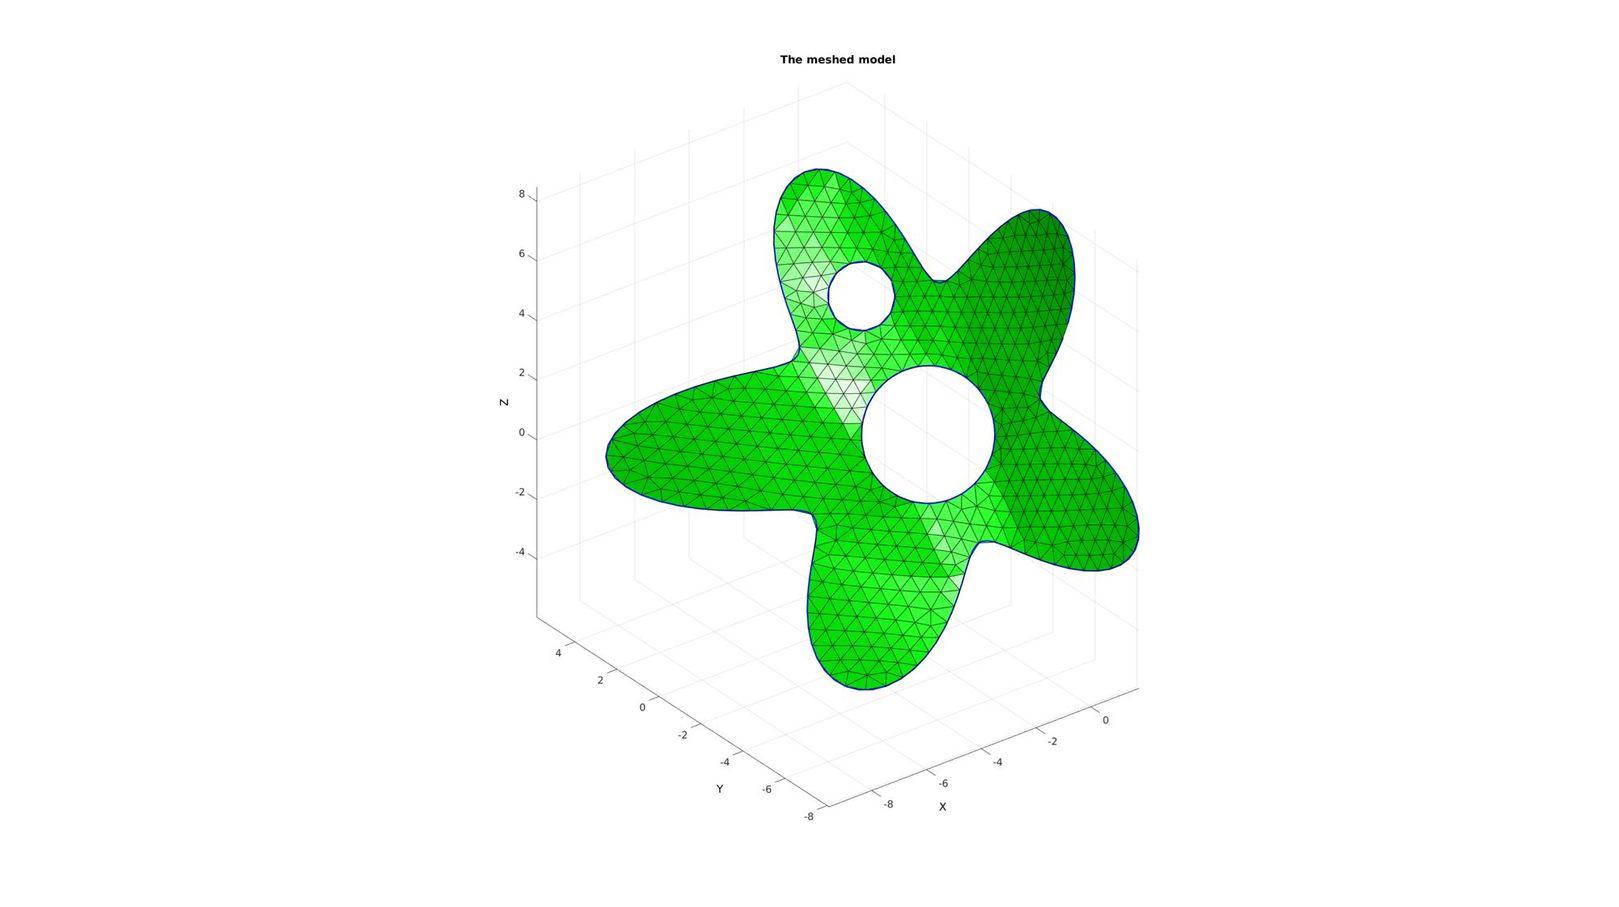
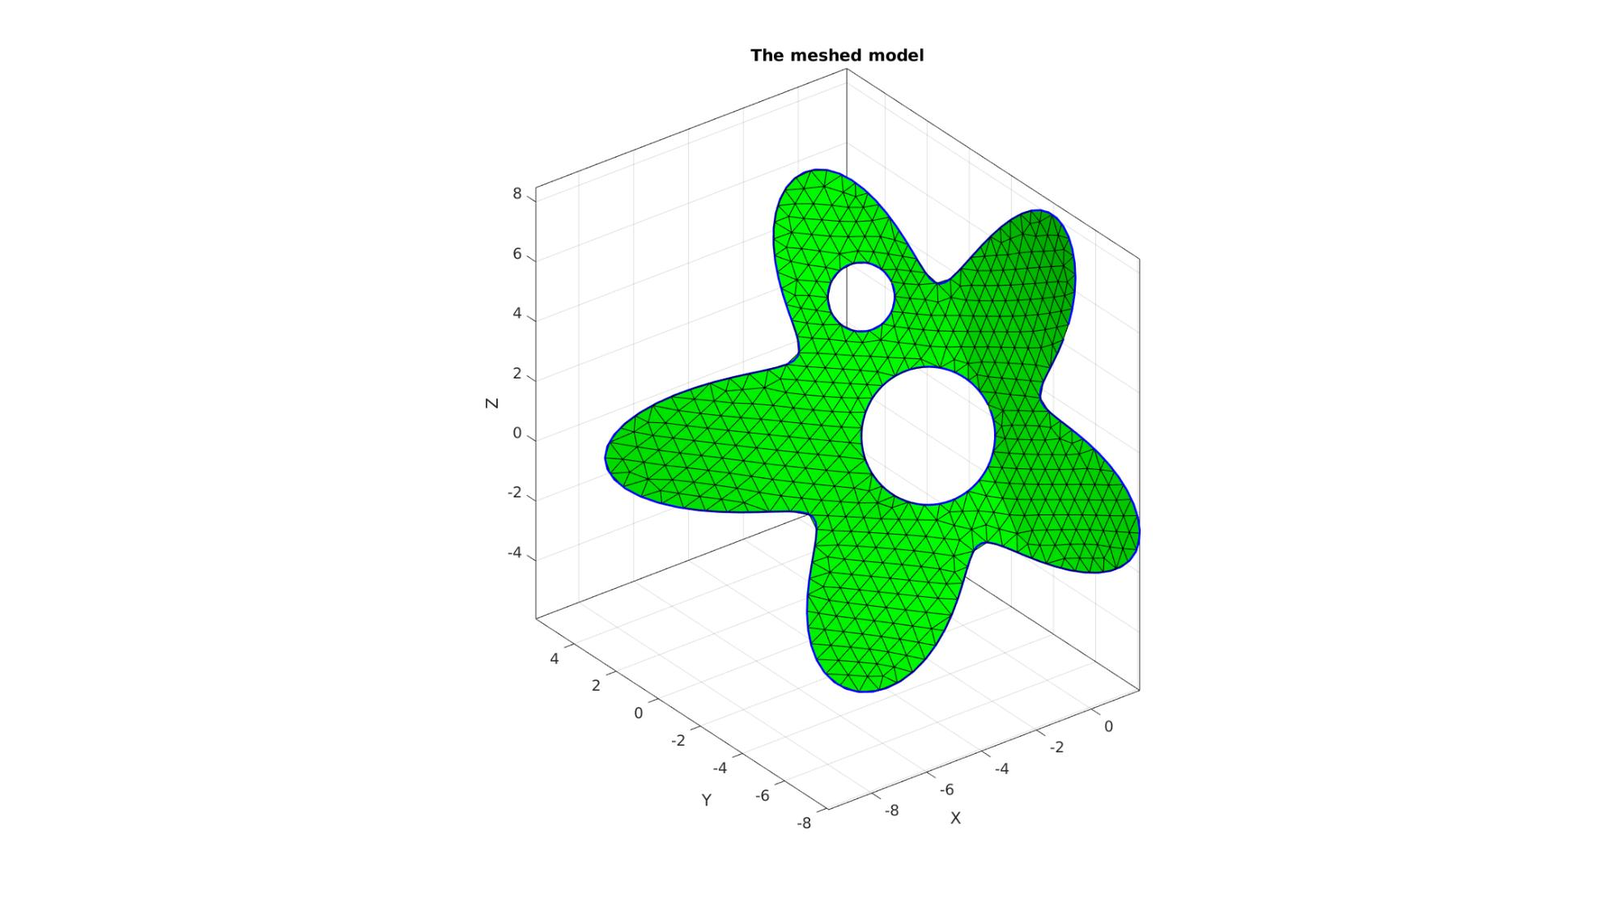
Documentation updates

diff --git a/docs/html/HELP_regionTriMesh3D.html b/docs/html/HELP_regionTriMesh3D.html
@@ -6,8 +6,8 @@
    <!--
 This HTML was auto-generated from MATLAB code.
 To make changes, update the MATLAB code and republish this document.
-      --><title>regionTriMesh3D</title><meta name="generator" content="MATLAB 9.6"><link rel="schema.DC" href="http://purl.org/dc/elements/1.1/"><meta name="DC.date" content="2019-06-20"><meta name="DC.source" content="HELP_regionTriMesh3D.m"><style type="text/css">
-html,body,div,span,applet,object,iframe,h1,h2,h3,h4,h5,h6,p,blockquote,pre,a,abbr,acronym,address,big,cite,code,del,dfn,em,font,img,ins,kbd,q,s,samp,small,strike,strong,sub,sup,tt,var,b,u,i,center,dl,dt,dd,ol,ul,li,fieldset,form,label,legend,table,caption,tbody,tfoot,thead,tr,th,td{margin:0;padding:0;border:0;outline:0;font-size:100%;vertical-align:baseline;background:transparent}body{line-height:1}ol,ul{list-style:none}blockquote,q{quotes:none}blockquote:before,blockquote:after,q:before,q:after{content:'';content:none}:focus{outine:0}ins{text-decoration:none}del{text-decoration:line-through}table{border-collapse:collapse;border-spacing:0}
+      --><title>regionTriMesh3D</title><meta name="generator" content="MATLAB 9.14"><link rel="schema.DC" href="http://purl.org/dc/elements/1.1/"><meta name="DC.date" content="2023-06-08"><meta name="DC.source" content="HELP_regionTriMesh3D.m"><style type="text/css">
+html,body,div,span,applet,object,iframe,h1,h2,h3,h4,h5,h6,p,blockquote,pre,a,abbr,acronym,address,big,cite,code,del,dfn,em,font,img,ins,kbd,q,s,samp,small,strike,strong,tt,var,b,u,i,center,dl,dt,dd,ol,ul,li,fieldset,form,label,legend,table,caption,tbody,tfoot,thead,tr,th,td{margin:0;padding:0;border:0;outline:0;font-size:100%;vertical-align:baseline;background:transparent}body{line-height:1}ol,ul{list-style:none}blockquote,q{quotes:none}blockquote:before,blockquote:after,q:before,q:after{content:'';content:none}:focus{outine:0}ins{text-decoration:none}del{text-decoration:line-through}table{border-collapse:collapse;border-spacing:0}
 
 html { min-height:100%; margin-bottom:1px; }
 html body { height:100%; margin:0px; font-family:Arial, Helvetica, sans-serif; font-size:10px; color:#000; line-height:140%; background:#fff none; overflow-y:scroll; }
@@ -23,7 +23,7 @@ a:visited { color:#004aa0; text-decoration:none; }
 
 p { padding:0px; margin:0px 0px 20px; }
 img { padding:0px; margin:0px 0px 20px; border:none; }
-p img, pre img, tt img, li img, h1 img, h2 img { margin-bottom:0px; } 
+p img, pre img, tt img, li img, h1 img, h2 img { margin-bottom:0px; }
 
 ul { padding:0px; margin:0px 0px 20px 23px; list-style:square; }
 ul li { padding:0px; margin:0px 0px 7px 0px; }
@@ -52,6 +52,7 @@ span.comment { color:#228B22 }
 span.string { color:#A020F0 }
 span.untermstring { color:#B20000 }
 span.syscmd { color:#B28C00 }
+span.typesection { color:#A0522D }
 
 .footer { width:auto; padding:10px 0px; margin:25px 0px 0px; border-top:1px dotted #878787; font-size:0.8em; line-height:140%; font-style:italic; color:#878787; text-align:left; float:none; }
 .footer p { margin:0px; }
@@ -66,7 +67,7 @@ table td { padding:7px 5px; text-align:left; vertical-align:top; border:1px soli
 
 
 
-  </style></head><body><div class="content"><h1>regionTriMesh3D</h1><!--introduction--><p>Below is a basic demonstration of the features of the <tt>regionTriMesh3D</tt> function.</p><!--/introduction--><h2>Contents</h2><div><ul><li><a href="#1">Syntax</a></li><li><a href="#2">Description</a></li><li><a href="#3">Examples</a></li><li><a href="#6">Example: Meshing a 3D region</a></li></ul></div><h2 id="1">Syntax</h2><p><tt>[F,V]=regionTriMesh3D(regionCell,pointSpacing,resampleCurveOpt,interpMethod);</tt></p><h2 id="2">Description</h2><p>This function meshes a 3D region. It is conceptually similar to regionTrimMesh2D. The 3D regions are rigidly transformed to a nearly 2D form and <tt>regionTrimMesh2D</tt> is then used for 2D meshing. Then interpolation is to get the coordinates in the 3rd dimension.</p><h2 id="3">Examples</h2><pre class="codeinput">clear; close <span class="string">all</span>; clc;
+  </style></head><body><div class="content"><h1>regionTriMesh3D</h1><!--introduction--><p>Below is a basic demonstration of the features of the <tt>regionTriMesh3D</tt> function.</p><!--/introduction--><h2>Contents</h2><div><ul><li><a href="#1">Syntax</a></li><li><a href="#2">Description</a></li><li><a href="#3">Examples</a></li><li><a href="#6">Example: Meshing a 3D region</a></li></ul></div><h2 id="1">Syntax</h2><p><tt>[F,V]=regionTriMesh3D(regionCell,pointSpacing,resampleCurveOpt,interpMethod);</tt></p><h2 id="2">Description</h2><p>This function meshes a 3D region. It is conceptually similar to <tt>regionTriMesh2D</tt>. The 3D regions are rigidly transformed to a nearly 2D form and <tt>regionTriMesh2D</tt> is then used for 2D meshing. Then interpolation is to get the coordinates in the 3rd dimension.</p><p>See also: <tt>regionTriMesh2D</tt></p><h2 id="3">Examples</h2><pre class="codeinput">clear; close <span class="string">all</span>; clc;
 </pre><p>Plot settings</p><pre class="codeinput">fontSize=15;
 markerSize1=45;
 lineWidth1=4;
@@ -110,21 +111,18 @@ pointSpacing=0.5; <span class="comment">%Desired point spacing</span>
 resampleCurveOpt=1;
 interpMethod=<span class="string">'linear'</span>; <span class="comment">%or 'natural'</span>
 [F,V]=regionTriMesh3D(regionCell,pointSpacing,resampleCurveOpt,interpMethod);
-</pre><p>Plotting meshed model</p><pre class="codeinput">hf1=cFigure;
+</pre><p>Plotting meshed model</p><pre class="codeinput">cFigure; hold <span class="string">on</span>;
 title(<span class="string">'The meshed model'</span>,<span class="string">'FontSize'</span>,fontSize);
-xlabel(<span class="string">'X'</span>,<span class="string">'FontSize'</span>,fontSize);ylabel(<span class="string">'Y'</span>,<span class="string">'FontSize'</span>,fontSize); zlabel(<span class="string">'Z'</span>,<span class="string">'FontSize'</span>,fontSize);
-hold <span class="string">on</span>;
 
-patch(<span class="string">'Faces'</span>,F,<span class="string">'Vertices'</span>,V,<span class="string">'FaceColor'</span>,<span class="string">'g'</span>);
-
+gpatch(F,V,<span class="string">'g'</span>);
 plotV(V1,<span class="string">'b-'</span>,<span class="string">'LineWidth'</span>,2);
 plotV(V2,<span class="string">'b-'</span>,<span class="string">'LineWidth'</span>,2);
 plotV(V3,<span class="string">'b-'</span>,<span class="string">'LineWidth'</span>,2);
 
-axis <span class="string">equal</span>; view(3); axis <span class="string">tight</span>;  grid <span class="string">on</span>;  set(gca,<span class="string">'FontSize'</span>,fontSize);
+axisGeom(gca,fontSize);
 camlight <span class="string">headlight</span>;
 drawnow;
-</pre><img width="100%" height="auto" vspace="5" hspace="5" src="HELP_regionTriMesh3D_01.jpg" alt=""> <p><img vspace="5" hspace="5" src="gibbVerySmall.gif" alt=""> </p><p><i><b>GIBBON</b></i> <a href="www.gibboncode.org">www.gibboncode.org</a></p><p><i>Kevin Mattheus Moerman</i>, <a href="gibbon.toolbox@gmail.com">gibbon.toolbox@gmail.com</a></p><p><i><b>GIBBON footer text</b></i></p><p>License: <a href="https://github.com/gibbonCode/GIBBON/blob/master/LICENSE">https://github.com/gibbonCode/GIBBON/blob/master/LICENSE</a></p><p>GIBBON: The Geometry and Image-based Bioengineering add-On. A toolbox for image segmentation, image-based modeling, meshing, and finite element analysis.</p><p>Copyright (C) 2019  Kevin Mattheus Moerman</p><p>This program is free software: you can redistribute it and/or modify it under the terms of the GNU General Public License as published by the Free Software Foundation, either version 3 of the License, or (at your option) any later version.</p><p>This program is distributed in the hope that it will be useful, but WITHOUT ANY WARRANTY; without even the implied warranty of MERCHANTABILITY or FITNESS FOR A PARTICULAR PURPOSE.  See the GNU General Public License for more details.</p><p>You should have received a copy of the GNU General Public License along with this program.  If not, see <a href="http://www.gnu.org/licenses/">http://www.gnu.org/licenses/</a>.</p><p class="footer"><br><a href="https://www.mathworks.com/products/matlab/">Published with MATLAB&reg; R2019a</a><br></p></div><!--
+</pre><img width="100%" height="auto" vspace="5" hspace="5" src="HELP_regionTriMesh3D_01.jpg" alt=""> <p><img vspace="5" hspace="5" src="gibbVerySmall.gif" alt=""> </p><p><i><b>GIBBON</b></i> <a href="www.gibboncode.org">www.gibboncode.org</a></p><p><i>Kevin Mattheus Moerman</i>, <a href="gibbon.toolbox@gmail.com">gibbon.toolbox@gmail.com</a></p><p><i><b>GIBBON footer text</b></i></p><p>License: <a href="https://github.com/gibbonCode/GIBBON/blob/master/LICENSE">https://github.com/gibbonCode/GIBBON/blob/master/LICENSE</a></p><p>GIBBON: The Geometry and Image-based Bioengineering add-On. A toolbox for image segmentation, image-based modeling, meshing, and finite element analysis.</p><p>Copyright (C) 2006-2023 Kevin Mattheus Moerman and the GIBBON contributors</p><p>This program is free software: you can redistribute it and/or modify it under the terms of the GNU General Public License as published by the Free Software Foundation, either version 3 of the License, or (at your option) any later version.</p><p>This program is distributed in the hope that it will be useful, but WITHOUT ANY WARRANTY; without even the implied warranty of MERCHANTABILITY or FITNESS FOR A PARTICULAR PURPOSE.  See the GNU General Public License for more details.</p><p>You should have received a copy of the GNU General Public License along with this program.  If not, see <a href="http://www.gnu.org/licenses/">http://www.gnu.org/licenses/</a>.</p><p class="footer"><br><a href="https://www.mathworks.com/products/matlab/">Published with MATLAB&reg; R2023a</a><br></p></div><!--
 ##### SOURCE BEGIN #####
 %% regionTriMesh3D
 % Below is a basic demonstration of the features of the |regionTriMesh3D| function.
@@ -134,9 +132,11 @@ drawnow;
 
 %% Description
 % This function meshes a 3D region. It is conceptually similar to
-% regionTrimMesh2D. The 3D regions are rigidly transformed to a nearly 2D
-% form and |regionTrimMesh2D| is then used for 2D meshing. Then
+% |regionTriMesh2D|. The 3D regions are rigidly transformed to a nearly 2D
+% form and |regionTriMesh2D| is then used for 2D meshing. Then
 % interpolation is to get the coordinates in the 3rd dimension. 
+%
+% See also: |regionTriMesh2D|
 
 %% Examples
 
@@ -201,18 +201,15 @@ interpMethod='linear'; %or 'natural'
 
 %%
 % Plotting meshed model
-hf1=cFigure;
+cFigure; hold on;
 title('The meshed model','FontSize',fontSize);
-xlabel('X','FontSize',fontSize);ylabel('Y','FontSize',fontSize); zlabel('Z','FontSize',fontSize);
-hold on;
 
-patch('Faces',F,'Vertices',V,'FaceColor','g');
-
+gpatch(F,V,'g');
 plotV(V1,'b-','LineWidth',2);
 plotV(V2,'b-','LineWidth',2);
 plotV(V3,'b-','LineWidth',2);
 
-axis equal; view(3); axis tight;  grid on;  set(gca,'FontSize',fontSize);
+axisGeom(gca,fontSize);
 camlight headlight;
 drawnow;
 
@@ -234,7 +231,7 @@ drawnow;
 % image segmentation, image-based modeling, meshing, and finite element
 % analysis.
 % 
-% Copyright (C) 2019  Kevin Mattheus Moerman
+% Copyright (C) 2006-2023 Kevin Mattheus Moerman and the GIBBON contributors
 % 
 % This program is free software: you can redistribute it and/or modify
 % it under the terms of the GNU General Public License as published by

diff --git a/docs/html/HELP_imlabelMean.html b/docs/html/HELP_imlabelMean.html
@@ -6,8 +6,8 @@
    <!--
 This HTML was auto-generated from MATLAB code.
 To make changes, update the MATLAB code and republish this document.
-      --><title>imlabelMean</title><meta name="generator" content="MATLAB 9.6"><link rel="schema.DC" href="http://purl.org/dc/elements/1.1/"><meta name="DC.date" content="2019-06-20"><meta name="DC.source" content="HELP_imlabelMean.m"><style type="text/css">
-html,body,div,span,applet,object,iframe,h1,h2,h3,h4,h5,h6,p,blockquote,pre,a,abbr,acronym,address,big,cite,code,del,dfn,em,font,img,ins,kbd,q,s,samp,small,strike,strong,sub,sup,tt,var,b,u,i,center,dl,dt,dd,ol,ul,li,fieldset,form,label,legend,table,caption,tbody,tfoot,thead,tr,th,td{margin:0;padding:0;border:0;outline:0;font-size:100%;vertical-align:baseline;background:transparent}body{line-height:1}ol,ul{list-style:none}blockquote,q{quotes:none}blockquote:before,blockquote:after,q:before,q:after{content:'';content:none}:focus{outine:0}ins{text-decoration:none}del{text-decoration:line-through}table{border-collapse:collapse;border-spacing:0}
+      --><title>imlabelMean</title><meta name="generator" content="MATLAB 9.14"><link rel="schema.DC" href="http://purl.org/dc/elements/1.1/"><meta name="DC.date" content="2023-06-08"><meta name="DC.source" content="HELP_imlabelMean.m"><style type="text/css">
+html,body,div,span,applet,object,iframe,h1,h2,h3,h4,h5,h6,p,blockquote,pre,a,abbr,acronym,address,big,cite,code,del,dfn,em,font,img,ins,kbd,q,s,samp,small,strike,strong,tt,var,b,u,i,center,dl,dt,dd,ol,ul,li,fieldset,form,label,legend,table,caption,tbody,tfoot,thead,tr,th,td{margin:0;padding:0;border:0;outline:0;font-size:100%;vertical-align:baseline;background:transparent}body{line-height:1}ol,ul{list-style:none}blockquote,q{quotes:none}blockquote:before,blockquote:after,q:before,q:after{content:'';content:none}:focus{outine:0}ins{text-decoration:none}del{text-decoration:line-through}table{border-collapse:collapse;border-spacing:0}
 
 html { min-height:100%; margin-bottom:1px; }
 html body { height:100%; margin:0px; font-family:Arial, Helvetica, sans-serif; font-size:10px; color:#000; line-height:140%; background:#fff none; overflow-y:scroll; }
@@ -23,7 +23,7 @@ a:visited { color:#004aa0; text-decoration:none; }
 
 p { padding:0px; margin:0px 0px 20px; }
 img { padding:0px; margin:0px 0px 20px; border:none; }
-p img, pre img, tt img, li img, h1 img, h2 img { margin-bottom:0px; } 
+p img, pre img, tt img, li img, h1 img, h2 img { margin-bottom:0px; }
 
 ul { padding:0px; margin:0px 0px 20px 23px; list-style:square; }
 ul li { padding:0px; margin:0px 0px 7px 0px; }
@@ -52,6 +52,7 @@ span.comment { color:#228B22 }
 span.string { color:#A020F0 }
 span.untermstring { color:#B20000 }
 span.syscmd { color:#B28C00 }
+span.typesection { color:#A0522D }
 
 .footer { width:auto; padding:10px 0px; margin:25px 0px 0px; border-top:1px dotted #878787; font-size:0.8em; line-height:140%; font-style:italic; color:#878787; text-align:left; float:none; }
 .footer p { margin:0px; }
@@ -67,7 +68,59 @@ table td { padding:7px 5px; text-align:left; vertical-align:top; border:1px soli
 
 
   </style></head><body><div class="content"><h1>imlabelMean</h1><!--introduction--><p>Below is a demonstration of the features of the <tt>imlabelMean</tt> function</p><!--/introduction--><h2>Contents</h2><div><ul><li><a href="#2">Syntax</a></li><li><a href="#3">Description</a></li><li><a href="#4">Examples</a></li></ul></div><pre class="codeinput">clear; close <span class="string">all</span>; clc;
-</pre><h2 id="2">Syntax</h2><p><tt>[Q_mean]=imlabelMean(M,ML);</tt></p><h2 id="3">Description</h2><p>UNDOCUMENTED</p><h2 id="4">Examples</h2><p><img vspace="5" hspace="5" src="gibbVerySmall.gif" alt=""> </p><p><i><b>GIBBON</b></i> <a href="www.gibboncode.org">www.gibboncode.org</a></p><p><i>Kevin Mattheus Moerman</i>, <a href="gibbon.toolbox@gmail.com">gibbon.toolbox@gmail.com</a></p><p><i><b>GIBBON footer text</b></i></p><p>License: <a href="https://github.com/gibbonCode/GIBBON/blob/master/LICENSE">https://github.com/gibbonCode/GIBBON/blob/master/LICENSE</a></p><p>GIBBON: The Geometry and Image-based Bioengineering add-On. A toolbox for image segmentation, image-based modeling, meshing, and finite element analysis.</p><p>Copyright (C) 2019  Kevin Mattheus Moerman</p><p>This program is free software: you can redistribute it and/or modify it under the terms of the GNU General Public License as published by the Free Software Foundation, either version 3 of the License, or (at your option) any later version.</p><p>This program is distributed in the hope that it will be useful, but WITHOUT ANY WARRANTY; without even the implied warranty of MERCHANTABILITY or FITNESS FOR A PARTICULAR PURPOSE.  See the GNU General Public License for more details.</p><p>You should have received a copy of the GNU General Public License along with this program.  If not, see <a href="http://www.gnu.org/licenses/">http://www.gnu.org/licenses/</a>.</p><p class="footer"><br><a href="https://www.mathworks.com/products/matlab/">Published with MATLAB&reg; R2019a</a><br></p></div><!--
+</pre><h2 id="2">Syntax</h2><p><tt>[Q_mean]=imlabelMean(M,ML);</tt></p><h2 id="3">Description</h2><p>This function takes the mean for each of the labeled groups (NaN's ignored) in ML according to the intensities in M.</p><h2 id="4">Examples</h2><p>Create example labelled image</p><pre class="codeinput"><span class="comment">% Defining a multi boundary set</span>
+r=2; <span class="comment">%Sphere radius</span>
+rc=3; <span class="comment">%Central radius</span>
+nr=15;
+nc=25;
+ptype=<span class="string">'quad'</span>;
+[F1,V1]=patchTorus(r,nr,rc,nc,ptype);
+[F2,V2]=quadSphere(2,r,2);
+V2(:,2)=V2(:,2)-5;
+[F3,V3]=quadSphere(2,r/2,2);
+V3(:,2)=V3(:,2)-5;
+[F4,V4]=quadSphere(3,r/2,2);
+V4(:,1)=V4(:,1)+2;
+V4(:,2)=V4(:,2)+2;
+
+[F,V,C]=joinElementSets({F1,F2,F3,F4},{V1,V2,V3,V4});
+
+<span class="comment">%Convert to label image</span>
+[~,~,ML]=patch2Im(F,V,[],0.1*ones(size(F,1),1));
+
+<span class="comment">%Create image to compute stats for these labelled regions</span>
+M=nan(size(ML));
+c=0;
+<span class="keyword">for</span> q=min(ML(~isnan(ML))):1:max(ML(~isnan(ML)))
+    <span class="keyword">if</span> nnz(ML==q)&gt;0
+        c=c+1;
+    <span class="keyword">end</span>
+M(ML==q)=c+q/10; <span class="comment">%Force data to be &lt;group number&gt;.&lt;label&gt;</span>
+<span class="keyword">end</span>
+</pre><p>Compute the mean for each region</p><pre class="codeinput">[Q_mean,labelSet]=imlabelMean(M,ML)
+</pre><pre class="codeoutput">
+Q_mean =
+
+    1.0000
+    2.2000
+    3.3000
+    4.4000
+    5.5000
+    6.6000
+    7.7000
+
+
+labelSet =
+
+     0
+     2
+     3
+     4
+     5
+     6
+     7
+
+</pre><p><img vspace="5" hspace="5" src="gibbVerySmall.gif" alt=""> </p><p><i><b>GIBBON</b></i> <a href="www.gibboncode.org">www.gibboncode.org</a></p><p><i>Kevin Mattheus Moerman</i>, <a href="gibbon.toolbox@gmail.com">gibbon.toolbox@gmail.com</a></p><p><i><b>GIBBON footer text</b></i></p><p>License: <a href="https://github.com/gibbonCode/GIBBON/blob/master/LICENSE">https://github.com/gibbonCode/GIBBON/blob/master/LICENSE</a></p><p>GIBBON: The Geometry and Image-based Bioengineering add-On. A toolbox for image segmentation, image-based modeling, meshing, and finite element analysis.</p><p>Copyright (C) 2006-2023 Kevin Mattheus Moerman and the GIBBON contributors</p><p>This program is free software: you can redistribute it and/or modify it under the terms of the GNU General Public License as published by the Free Software Foundation, either version 3 of the License, or (at your option) any later version.</p><p>This program is distributed in the hope that it will be useful, but WITHOUT ANY WARRANTY; without even the implied warranty of MERCHANTABILITY or FITNESS FOR A PARTICULAR PURPOSE.  See the GNU General Public License for more details.</p><p>You should have received a copy of the GNU General Public License along with this program.  If not, see <a href="http://www.gnu.org/licenses/">http://www.gnu.org/licenses/</a>.</p><p class="footer"><br><a href="https://www.mathworks.com/products/matlab/">Published with MATLAB&reg; R2023a</a><br></p></div><!--
 ##### SOURCE BEGIN #####
 %% imlabelMean
 % Below is a demonstration of the features of the |imlabelMean| function
@@ -79,9 +132,50 @@ clear; close all; clc;
 % |[Q_mean]=imlabelMean(M,ML);|
 
 %% Description 
-% UNDOCUMENTED 
+% This function takes the mean for each of the labeled groups (NaN's
+% ignored) in ML according to the intensities in M.
+
 %% Examples 
 % 
+
+%%
+% Create example labelled image
+
+% Defining a multi boundary set
+r=2; %Sphere radius
+rc=3; %Central radius
+nr=15;
+nc=25;
+ptype='quad';
+[F1,V1]=patchTorus(r,nr,rc,nc,ptype);
+[F2,V2]=quadSphere(2,r,2);
+V2(:,2)=V2(:,2)-5;
+[F3,V3]=quadSphere(2,r/2,2);
+V3(:,2)=V3(:,2)-5;
+[F4,V4]=quadSphere(3,r/2,2);
+V4(:,1)=V4(:,1)+2;
+V4(:,2)=V4(:,2)+2;
+
+[F,V,C]=joinElementSets({F1,F2,F3,F4},{V1,V2,V3,V4});
+
+%Convert to label image
+[~,~,ML]=patch2Im(F,V,[],0.1*ones(size(F,1),1));
+
+%Create image to compute stats for these labelled regions
+M=nan(size(ML));
+c=0;
+for q=min(ML(~isnan(ML))):1:max(ML(~isnan(ML)))
+    if nnz(ML==q)>0
+        c=c+1;
+    end
+M(ML==q)=c+q/10; %Force data to be <group number>.<label>
+end
+
+%%
+% Compute the mean for each region
+
+[Q_mean,labelSet]=imlabelMean(M,ML)
+
 %%
 % 
 % <<gibbVerySmall.gif>>
@@ -99,7 +193,7 @@ clear; close all; clc;
 % image segmentation, image-based modeling, meshing, and finite element
 % analysis.
 % 
-% Copyright (C) 2019  Kevin Mattheus Moerman
+% Copyright (C) 2006-2023 Kevin Mattheus Moerman and the GIBBON contributors
 % 
 % This program is free software: you can redistribute it and/or modify
 % it under the terms of the GNU General Public License as published by

diff --git a/lib/imlabelMean.m b/lib/imlabelMean.m
@@ -1,6 +1,6 @@
-function [Q_mean]=imlabelMean(M,ML)
+function [varargout]=imlabelMean(varargin)
 
-% function [Q_mean]=imlabelMean(M,ML)
+% function [Q_mean]=imlabelMean(M,ML,methodOpt)
 % ------------------------------------------------------------------------
 %
 % This function takes the mean for each of the labeled groups (NaN's
@@ -8,21 +8,32 @@ function [Q_mean]=imlabelMean(M,ML)
 %
 %
 % Kevin Mattheus Moerman
-% kevinmoerman@hotmail.com
 % 2014/04/01
 %------------------------------------------------------------------------
 
-defaultMethod=1; %Hard coded for now
-switch defaultMethod    
-    case 1 %SPARSE ARRAY BASED (more efficient for large arrays)
-        labelSet=unique(ML(:));
-        labelSet=labelSet(~isnan(labelSet)); %Remove the nan labelled group
-        
-        numLabels=max(labelSet);
-        
-        logic_ML_not_nan=~isnan(ML);
+%%
+
+switch nargin
+    case 2
+        M=varargin{1};
+        ML=varargin{2};
+        methodOpt=1; 
+    case 3
+        M=varargin{1};
+        ML=varargin{2};
+        methodOpt=varargin{3};
+end
+
+%%
+logic_ML_not_nan=~isnan(ML); %Logic for nan entries
+[labelSet,~,ind2]=unique(ML(logic_ML_not_nan)); %Get the unique label set and ind2 (reconstructor)
+numLabels=numel(labelSet); %The number of unique labels
+labelIndices=1:1:numLabels; %Label indices (used to replace arbitary labels e.g. -1,0,pi to 1,2,3)
+
+switch methodOpt    
+    case 1 %SPARSE ARRAY BASED (more efficient for large arrays)        
         nnzQ=nnz(logic_ML_not_nan);
-        Iq=ML(logic_ML_not_nan);
+        Iq=labelIndices(ind2);
         Jq=1:nnzQ;
         Sq=M(logic_ML_not_nan);
         sizQ=[numLabels,nnzQ];
@@ -33,12 +44,20 @@ switch defaultMethod
         Q_voxelCount=full(sum(spones(Q),2));
         Q_mean=Q_sum./Q_voxelCount;
     case 2 %REGIONPROPS BASED
-        ML(isnan(ML))=0;
-        A=regionprops(ML,M,'MeanIntensity');
+        M_id=nan(size(ML));
+        M_id(logic_ML_not_nan)=labelIndices(ind2);
+        M_id(isnan(M_id))=0;
+        A=regionprops(M_id,M,'MeanIntensity');
         Q_mean=[A.MeanIntensity];
         Q_mean=Q_mean(:);
 end
 
+%%
+
+varargout{1}=Q_mean;
+if nargout==2
+    varargout{2}=labelSet;
+end
 
  
 %% 

diff --git a/docs/HELP_imlabelMean.m b/docs/HELP_imlabelMean.m
@@ -8,9 +8,50 @@ clear; close all; clc;
 % |[Q_mean]=imlabelMean(M,ML);|
 
 %% Description 
-% UNDOCUMENTED 
+% This function takes the mean for each of the labeled groups (NaN's
+% ignored) in ML according to the intensities in M.
+
 %% Examples 
 % 
+
+%%
+% Create example labelled image
+
+% Defining a multi boundary set
+r=2; %Sphere radius
+rc=3; %Central radius
+nr=15;
+nc=25;
+ptype='quad';
+[F1,V1]=patchTorus(r,nr,rc,nc,ptype);
+[F2,V2]=quadSphere(2,r,2);
+V2(:,2)=V2(:,2)-5;
+[F3,V3]=quadSphere(2,r/2,2);
+V3(:,2)=V3(:,2)-5;
+[F4,V4]=quadSphere(3,r/2,2);
+V4(:,1)=V4(:,1)+2;
+V4(:,2)=V4(:,2)+2;
+
+[F,V,C]=joinElementSets({F1,F2,F3,F4},{V1,V2,V3,V4});
+
+%Convert to label image
+[~,~,ML]=patch2Im(F,V,[],0.1*ones(size(F,1),1));
+
+%Create image to compute stats for these labelled regions
+M=nan(size(ML));
+c=0;
+for q=min(ML(~isnan(ML))):1:max(ML(~isnan(ML)))
+    if nnz(ML==q)>0
+        c=c+1;
+    end
+M(ML==q)=c+q/10; %Force data to be <group number>.<label>
+end
+
+%%
+% Compute the mean for each region
+
+[Q_mean,labelSet]=imlabelMean(M,ML)
+
 %%
 % 
 % <<gibbVerySmall.gif>>

diff --git a/docs/HELP_regionTriMesh3D.m b/docs/HELP_regionTriMesh3D.m
@@ -6,9 +6,11 @@
 
 %% Description
 % This function meshes a 3D region. It is conceptually similar to
-% regionTrimMesh2D. The 3D regions are rigidly transformed to a nearly 2D
-% form and |regionTrimMesh2D| is then used for 2D meshing. Then
+% |regionTriMesh2D|. The 3D regions are rigidly transformed to a nearly 2D
+% form and |regionTriMesh2D| is then used for 2D meshing. Then
 % interpolation is to get the coordinates in the 3rd dimension. 
+%
+% See also: |regionTriMesh2D|
 
 %% Examples
 
